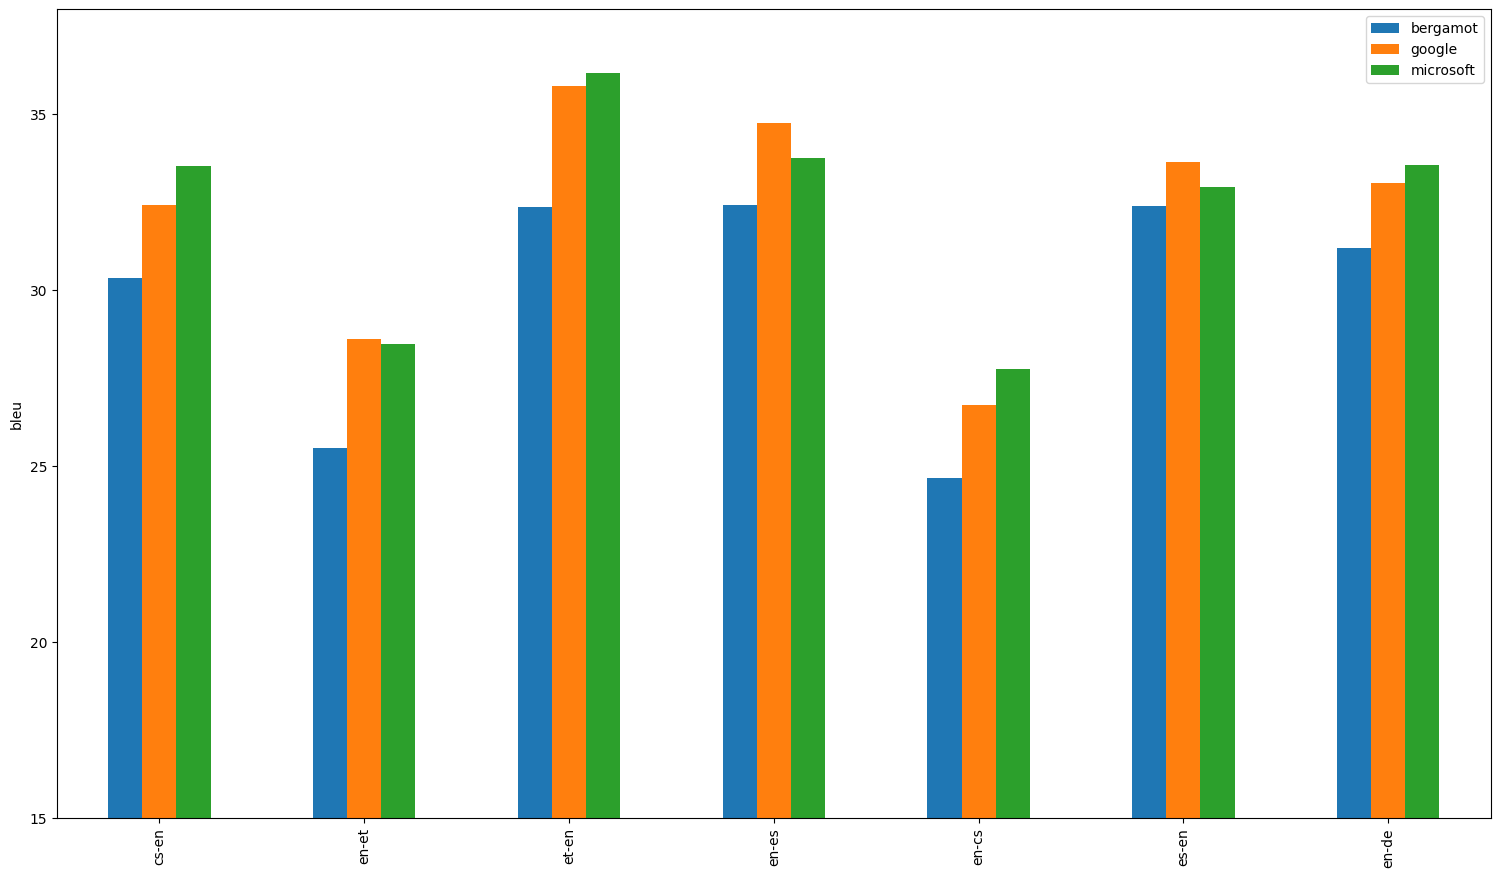
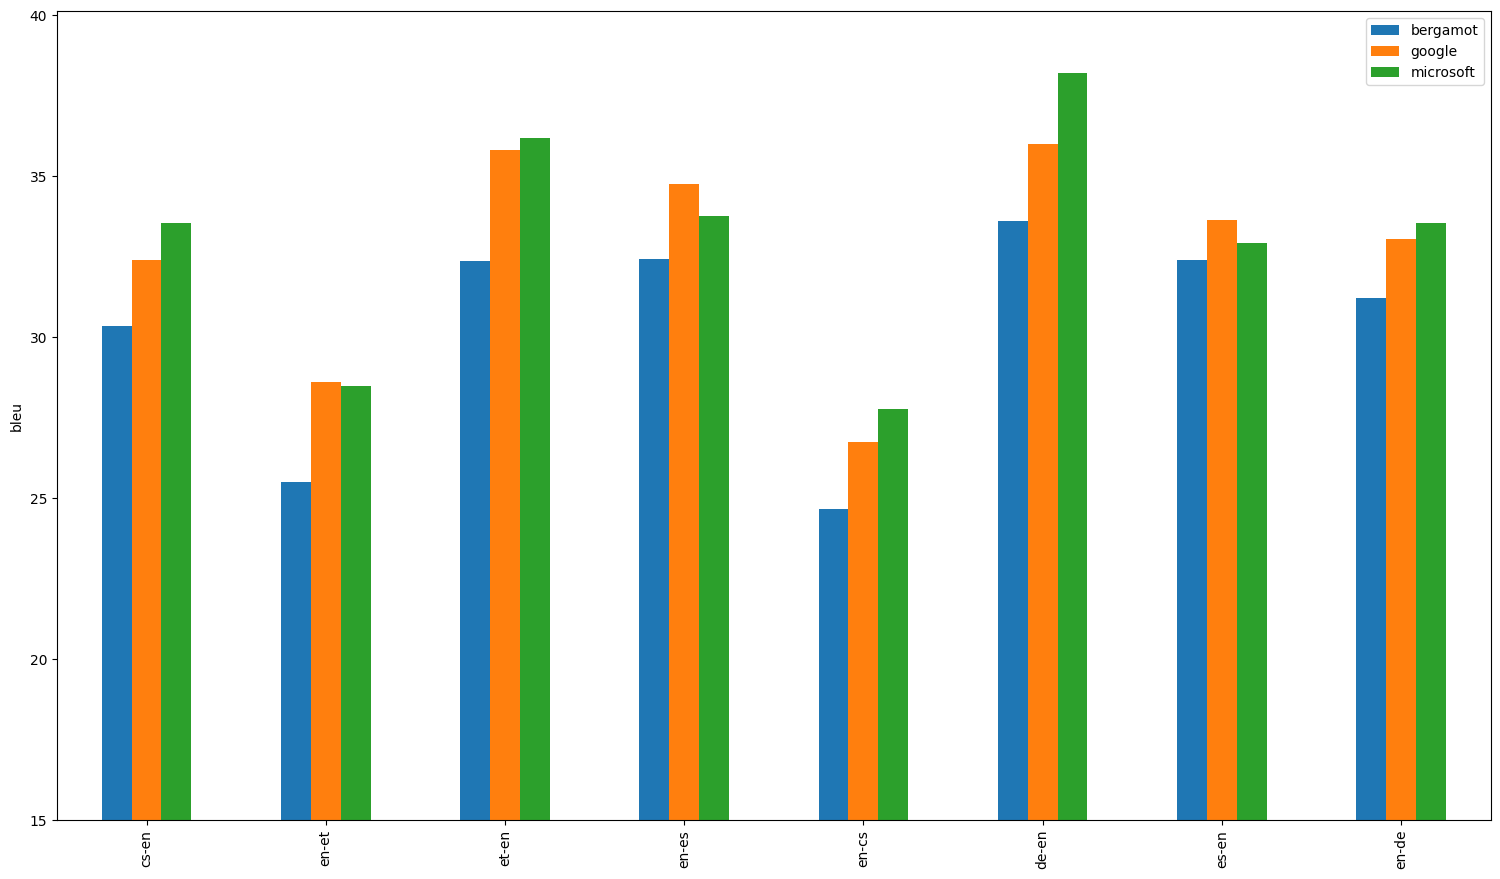
Update evaluation results [skip ci]

diff --git a/evaluation/prod/results.md b/evaluation/prod/results.md
@@ -57,11 +57,11 @@ Both absolute and relative differences in BLEU scores between Bergamot and other
 
 ## avg
 
-| Translator/Dataset | cs-en | en-et | et-en | en-es | en-cs | es-en | en-de |
-| --- | --- | --- | --- | --- | --- | --- | --- |
-| bergamot | 30.34 | 25.50 | 32.37 | 32.41 | 24.65 | 32.38 | 31.20 |
-| google | 32.40 (+2.06, +6.80%) | 28.60 (+3.10, +12.16%) | 35.80 (+3.43, +10.61%) | 34.74 (+2.32, +7.17%) | 26.73 (+2.09, +8.47%) | 33.64 (+1.27, +3.91%) | 33.05 (+1.85, +5.93%) |
-| microsoft | 33.53 (+3.19, +10.53%) | 28.47 (+2.97, +11.63%) | 36.17 (+3.80, +11.74%) | 33.76 (+1.35, +4.17%) | 27.75 (+3.11, +12.60%) | 32.93 (+0.56, +1.72%) | 33.54 (+2.34, +7.51%) |
+| Translator/Dataset | cs-en | en-et | et-en | en-es | en-cs | de-en | es-en | en-de |
+| --- | --- | --- | --- | --- | --- | --- | --- | --- |
+| bergamot | 30.34 | 25.50 | 32.37 | 32.41 | 24.65 | 33.60 | 32.38 | 31.20 |
+| google | 32.40 (+2.06, +6.80%) | 28.60 (+3.10, +12.16%) | 35.80 (+3.43, +10.61%) | 34.74 (+2.32, +7.17%) | 26.73 (+2.09, +8.47%) | 35.98 (+2.38, +7.09%) | 33.64 (+1.27, +3.91%) | 33.05 (+1.85, +5.93%) |
+| microsoft | 33.53 (+3.19, +10.53%) | 28.47 (+2.97, +11.63%) | 36.17 (+3.80, +11.74%) | 33.76 (+1.35, +4.17%) | 27.75 (+3.11, +12.60%) | 38.21 (+4.61, +13.71%) | 32.93 (+0.56, +1.72%) | 33.54 (+2.34, +7.51%) |
 
 ![Results](img/avg.png)
 
@@ -114,6 +114,16 @@ Both absolute and relative differences in BLEU scores between Bergamot and other
 | microsoft | 22.90 (+4.10, +21.81%) | 33.50 (+3.40, +11.30%) | 27.20 (+0.10, +0.37%) | 31.90 (+3.20, +11.15%) | 25.60 (+2.20, +9.40%) | 34.10 (+1.40, +4.28%) | 27.40 (+2.00, +7.87%) | 22.60 (+3.60, +18.95%) | 25.30 (+4.60, +22.22%) | 24.90 (+2.20, +9.69%) | 25.00 (+4.20, +20.19%) | 24.30 (+3.40, +16.27%) | 34.00 (+3.80, +12.58%) | 27.70 (+4.30, +18.38%) | 29.90 (+4.10, +15.89%) |
 
 ![Results](img/en-cs.png)
+
+## de-en
+
+| Translator/Dataset | wmt08 | wmt19 | wmt17 | iwslt17 | wmt10 | flores-dev | flores-test | wmt12 | wmt11 | wmt14 | wmt15 | wmt16 | wmt13 | wmt18 | wmt09 | wmt20 |
+| --- | --- | --- | --- | --- | --- | --- | --- | --- | --- | --- | --- | --- | --- | --- | --- | --- |
+| bergamot | 26.30 | 39.20 | 34.90 | 28.90 | 29.30 | 39.40 | 39.10 | 27.60 | 26.30 | 33.60 | 33.50 | 39.60 | 30.90 | 43.50 | 26.40 | 39.10 |
+| google | 27.60 (+1.30, +4.94%) | 41.10 (+1.90, +4.85%) | 38.70 (+3.80, +10.89%) | 30.10 (+1.20, +4.15%) | 32.10 (+2.80, +9.56%) | 43.10 (+3.70, +9.39%) | 42.80 (+3.70, +9.46%) | 29.50 (+1.90, +6.88%) | 27.30 (+1.00, +3.80%) | 37.40 (+3.80, +11.31%) | 36.10 (+2.60, +7.76%) | 42.30 (+2.70, +6.82%) | 32.40 (+1.50, +4.85%) | 46.20 (+2.70, +6.21%) | 27.20 (+0.80, +3.03%) | 41.80 (+2.70, +6.91%) |
+| microsoft | 29.40 (+3.10, +11.79%) | 43.80 (+4.60, +11.73%) | 40.80 (+5.90, +16.91%) | 32.50 (+3.60, +12.46%) | 33.40 (+4.10, +13.99%) | 44.90 (+5.50, +13.96%) | 45.80 (+6.70, +17.14%) | 31.30 (+3.70, +13.41%) | 29.20 (+2.90, +11.03%) | 39.20 (+5.60, +16.67%) | 38.10 (+4.60, +13.73%) | 46.30 (+6.70, +16.92%) | 34.30 (+3.40, +11.00%) | 49.60 (+6.10, +14.02%) | 29.10 (+2.70, +10.23%) | 43.60 (+4.50, +11.51%) |
+
+![Results](img/de-en.png)
 
 ## es-en
 
